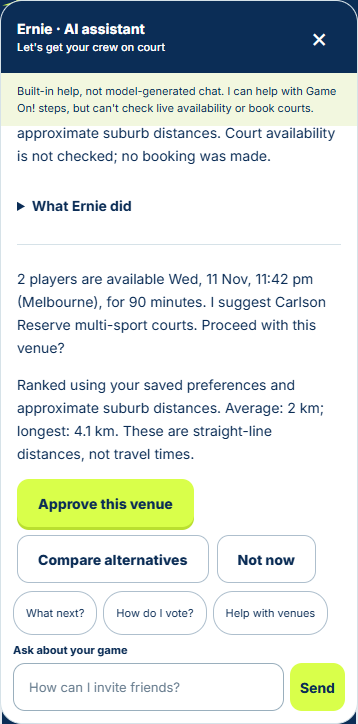
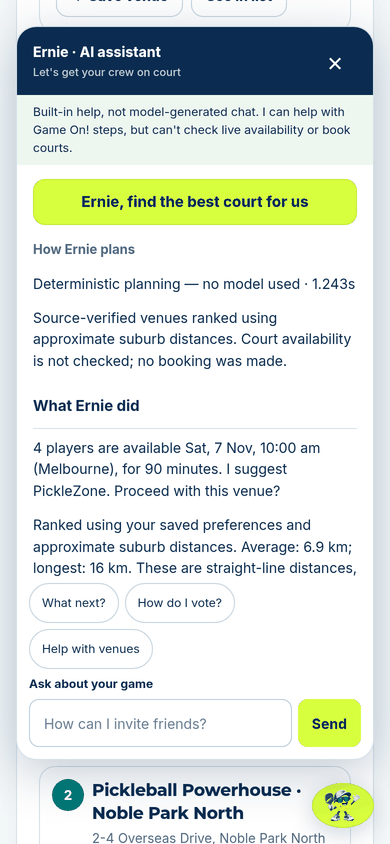
Refresh screenshots for the new UI (390px and 1280px)

diff --git a/README.md b/README.md
@@ -10,13 +10,15 @@ Built for Week 3 of *Mastering Agentic AI* (Maven, The Gen Academy) by Shyam Sri
 | --- | --- | --- | --- |
 | <img src="docs/screenshots/home.png" width="180"> | <img src="docs/screenshots/map.png" width="180"> | <img src="docs/screenshots/ernie.png" width="180"> | <img src="docs/screenshots/court.png" width="180"> |
 
+More screens (390 px phone and 1280 px desktop) live in [`docs/screenshots/`](docs/screenshots/): `home-*`, `group-*`, `join-*`, `start-game-*`, `game-workspace-*`, `game-waiting-*` and `game-handoff-*`. The UI follows the "Balanced Companion" concept: compact crew and availability on the left, a wide court map on the right, and Ernie on hand when needed.
+
 ## The problem
 
 Organising a game of doubles over WhatsApp takes dozens of messages: who's free, when, where, who books, how much. Game On! turns that into one link and one decision.
 
 ## How it works
 
-1. **Create:** the organiser offers 2 to 6 start times (60, 90 or 120 minutes, Melbourne time). No account needed.
+1. **Create a group, then a game:** the organiser creates a reusable group (no account needed), then starts a game with 2 to 6 start times (60, 90 or 120 minutes, Melbourne time). Games are started from inside a group; older standalone game links still open.
 2. **Share:** one link goes to the group chat. Reusable groups keep the same crew and favourite venues.
 3. **Vote:** friends tick every slot that works. The page updates live, and a game is *ready* once everyone has voted and at least four players share a time.
 4. **Ernie, find us a court:** Ernie plans over the real game data and a verified directory of 29 Victorian pickleball venues, then proposes the venue that is fairest on travel for the group.
